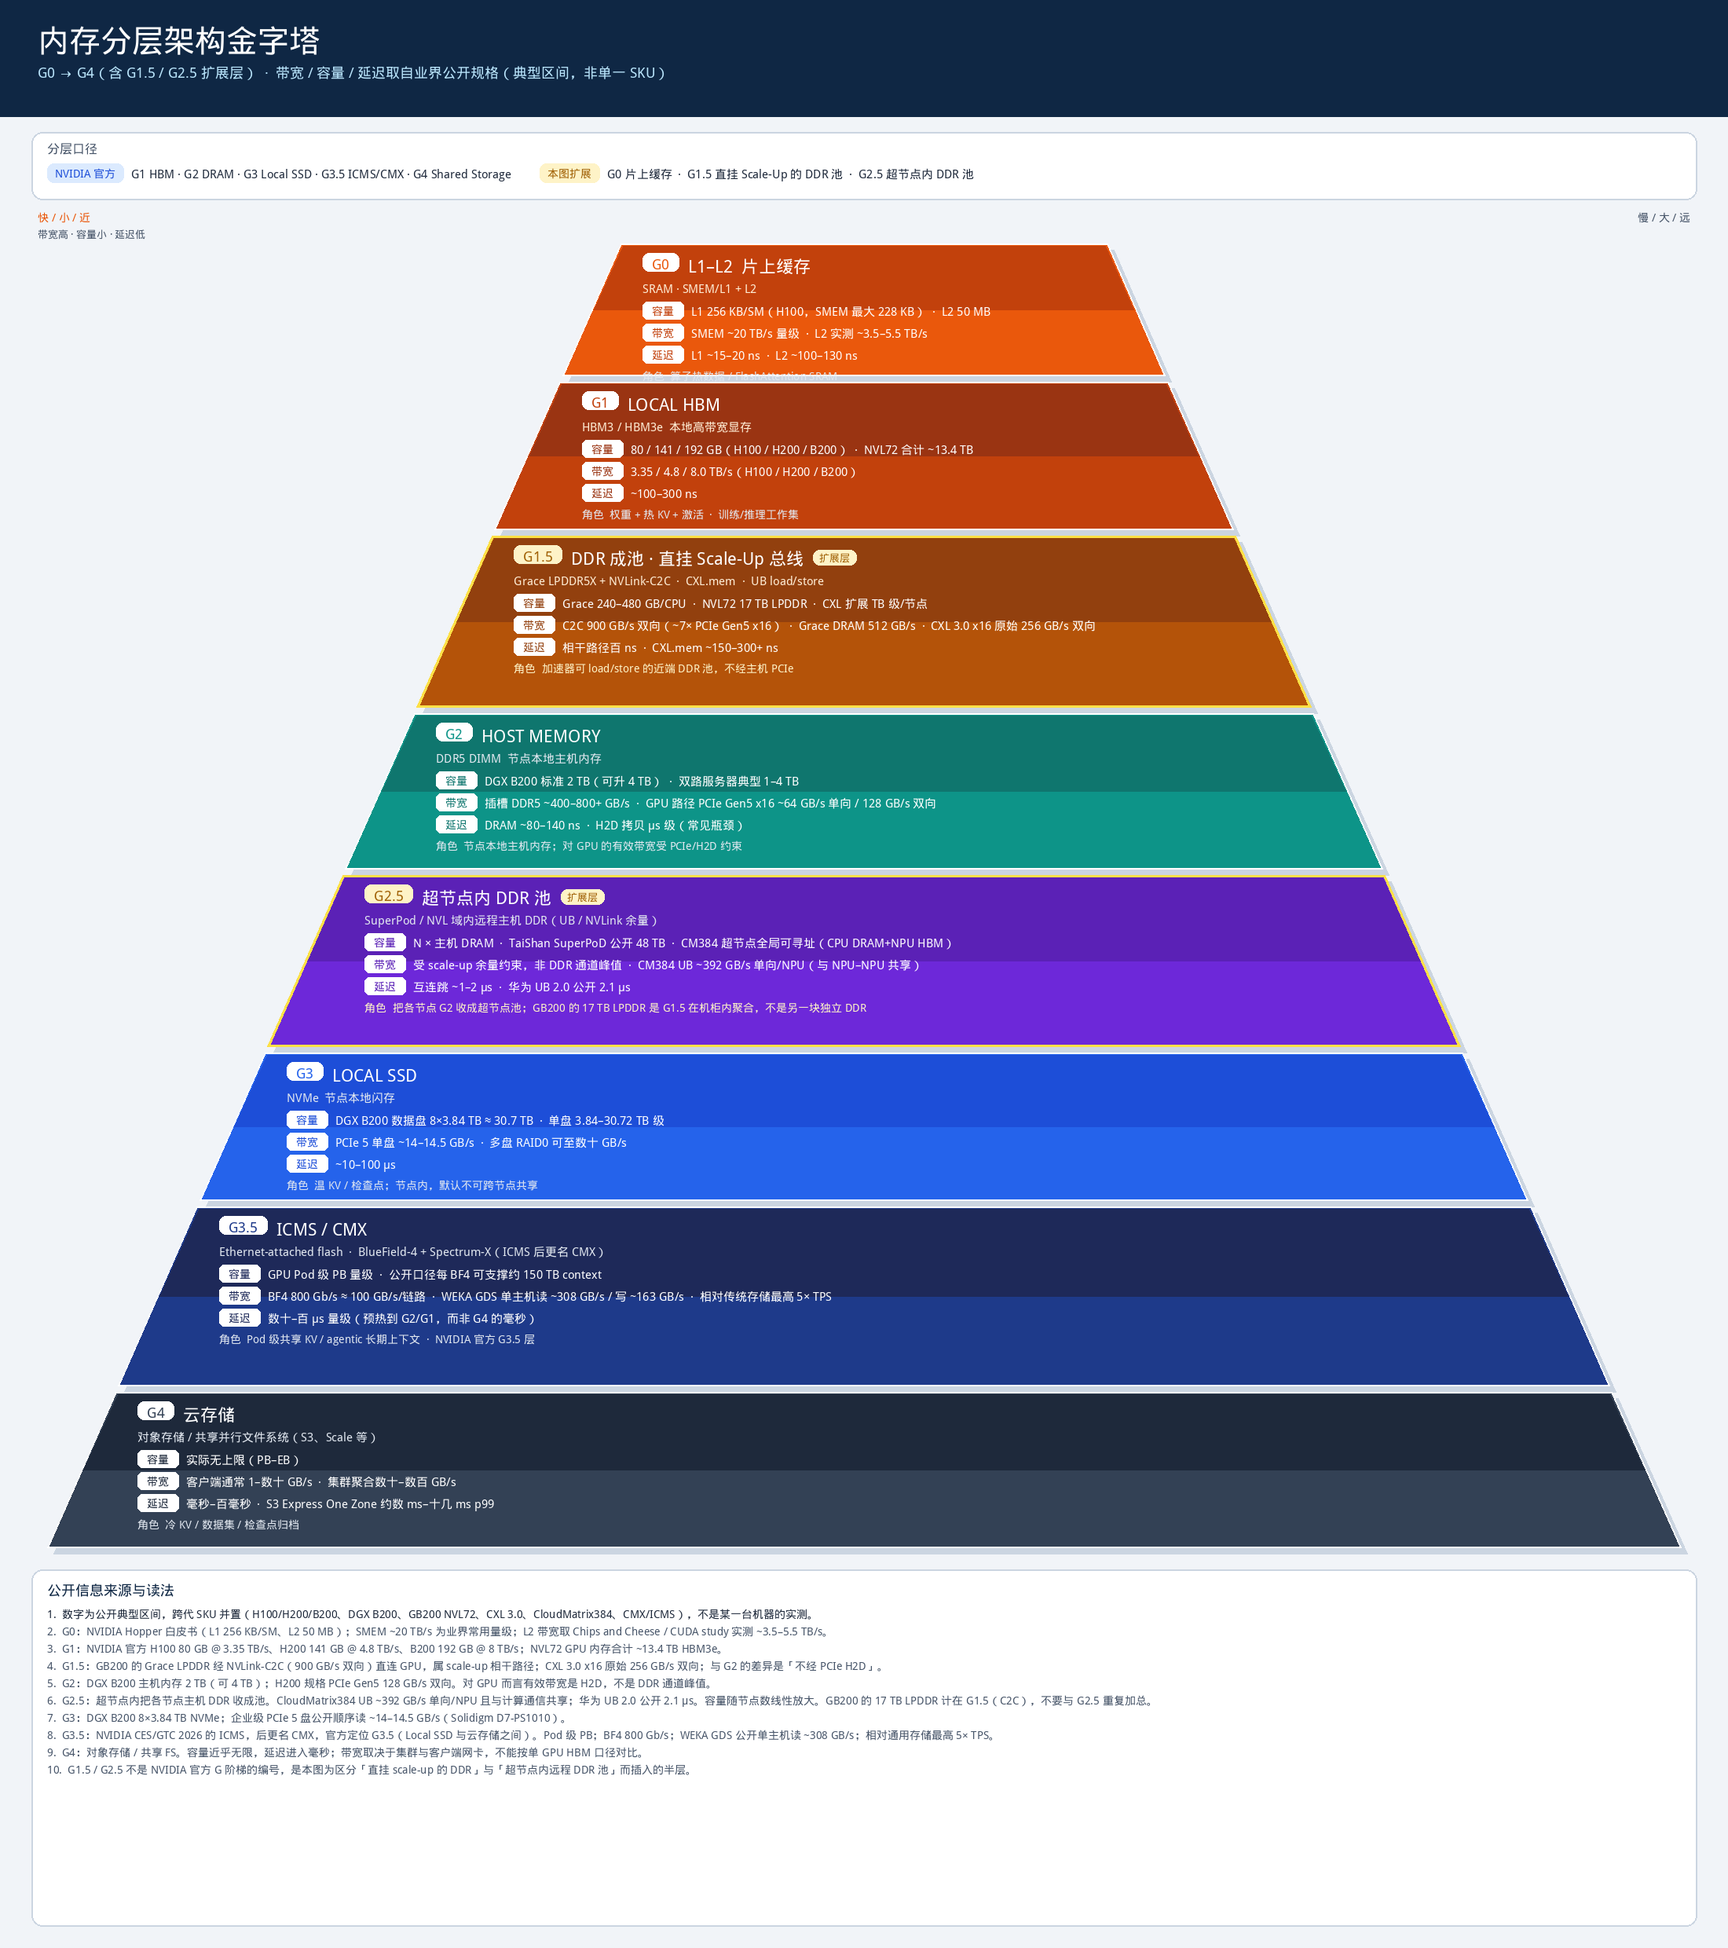
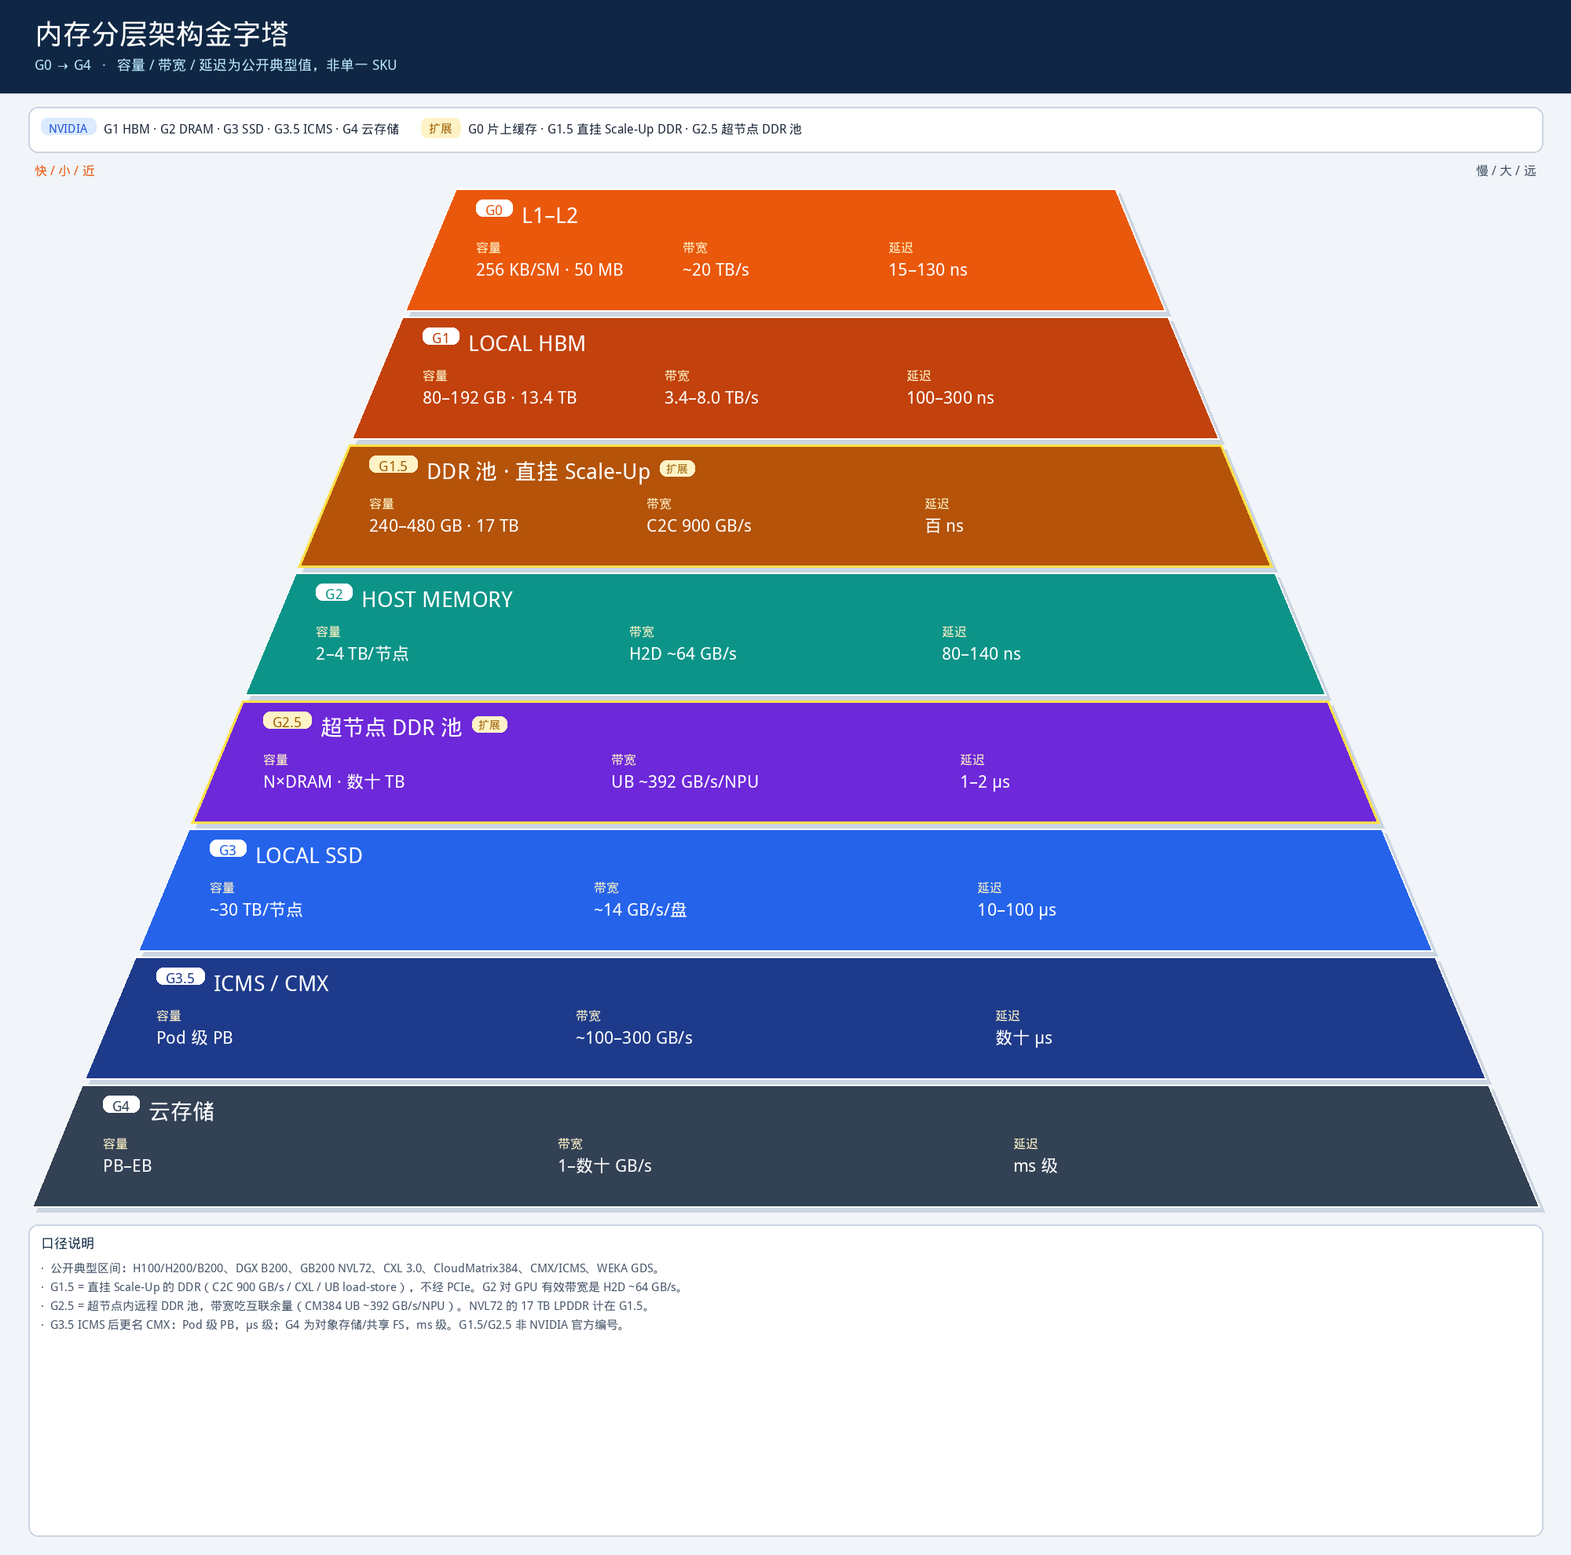
docs: simplify memory pyramid — drop roles, enlarge type
Remove per-layer role lines and shorten capacity/bandwidth/latency
copy into a three-column layout so the G0–G4 labels stay readable.

diff --git a/docs/gen_memory_hierarchy_pyramid.py b/docs/gen_memory_hierarchy_pyramid.py
@@ -3,7 +3,7 @@
 
 from PIL import Image, ImageDraw, ImageFont
 
-W, H = 2200, 2480
+W, H = 2000, 1980
 FONT = "/usr/share/fonts/truetype/wqy/wqy-microhei.ttc"
 
 NAVY = (15, 39, 68)
@@ -37,110 +37,79 @@ def pill(d, x, y, text, f, fg, bg, pad_x=10, pad_y=5):
     return w + 2 * pad_x, h + 2 * pad_y
 
 
+# cap / bw / lat kept short so they stay readable inside the trapezoid
 LAYERS = [
     {
         "id": "G0",
-        "name": "L1–L2  片上缓存",
-        "media": "SRAM · SMEM/L1 + L2",
+        "name": "L1–L2",
         "ext": False,
         "fill": (234, 88, 12),
-        "fill2": (194, 65, 12),
-        "cap": "L1 256 KB/SM（H100，SMEM 最大 228 KB）  ·  L2 50 MB",
-        "bw": "SMEM ~20 TB/s 量级  ·  L2 实测 ~3.5–5.5 TB/s",
-        "lat": "L1 ~15–20 ns  ·  L2 ~100–130 ns",
-        "role": "算子热数据 / FlashAttention SRAM",
-        "src": "Hopper 白皮书 · Chips and Cheese / CUDA microbench",
+        "cap": "256 KB/SM · 50 MB",
+        "bw": "~20 TB/s",
+        "lat": "15–130 ns",
     },
     {
         "id": "G1",
         "name": "LOCAL HBM",
-        "media": "HBM3 / HBM3e  本地高带宽显存",
         "ext": False,
         "fill": (194, 65, 12),
-        "fill2": (154, 52, 18),
-        "cap": "80 / 141 / 192 GB（H100 / H200 / B200）  ·  NVL72 合计 ~13.4 TB",
-        "bw": "3.35 / 4.8 / 8.0 TB/s（H100 / H200 / B200）",
-        "lat": "~100–300 ns",
-        "role": "权重 + 热 KV + 激活  ·  训练/推理工作集",
-        "src": "NVIDIA H100 / H200 / B200 / GB200 NVL72 公开规格",
+        "cap": "80–192 GB · 13.4 TB",
+        "bw": "3.4–8.0 TB/s",
+        "lat": "100–300 ns",
     },
     {
         "id": "G1.5",
-        "name": "DDR 成池 · 直挂 Scale-Up 总线",
-        "media": "Grace LPDDR5X + NVLink-C2C  ·  CXL.mem  ·  UB load/store",
+        "name": "DDR 池 · 直挂 Scale-Up",
         "ext": True,
         "fill": (180, 83, 9),
-        "fill2": (146, 64, 14),
-        "cap": "Grace 240–480 GB/CPU  ·  NVL72 17 TB LPDDR  ·  CXL 扩展 TB 级/节点",
-        "bw": "C2C 900 GB/s 双向（~7× PCIe Gen5 x16）  ·  Grace DRAM 512 GB/s  ·  CXL 3.0 x16 原始 256 GB/s 双向",
-        "lat": "相干路径百 ns  ·  CXL.mem ~150–300+ ns",
-        "role": "加速器可 load/store 的近端 DDR 池，不经主机 PCIe",
-        "src": "GB200 NVL72 · CXL 3.0 白皮书 · CloudMatrix384 UB 全局地址空间",
+        "cap": "240–480 GB · 17 TB",
+        "bw": "C2C 900 GB/s",
+        "lat": "百 ns",
     },
     {
         "id": "G2",
         "name": "HOST MEMORY",
-        "media": "DDR5 DIMM  节点本地主机内存",
         "ext": False,
         "fill": (13, 148, 136),
-        "fill2": (15, 118, 110),
-        "cap": "DGX B200 标准 2 TB（可升 4 TB）  ·  双路服务器典型 1–4 TB",
-        "bw": "插槽 DDR5 ~400–800+ GB/s  ·  GPU 路径 PCIe Gen5 x16 ~64 GB/s 单向 / 128 GB/s 双向",
-        "lat": "DRAM ~80–140 ns  ·  H2D 拷贝 µs 级（常见瓶颈）",
-        "role": "节点本地主机内存；对 GPU 的有效带宽受 PCIe/H2D 约束",
-        "src": "DGX B200 User Guide · H200 PCIe 128 GB/s",
+        "cap": "2–4 TB/节点",
+        "bw": "H2D ~64 GB/s",
+        "lat": "80–140 ns",
     },
     {
         "id": "G2.5",
-        "name": "超节点内 DDR 池",
-        "media": "SuperPod / NVL 域内远程主机 DDR（UB / NVLink 余量）",
+        "name": "超节点 DDR 池",
         "ext": True,
         "fill": (109, 40, 217),
-        "fill2": (91, 33, 182),
-        "cap": "N × 主机 DRAM  ·  TaiShan SuperPoD 公开 48 TB  ·  CM384 超节点全局可寻址（CPU DRAM+NPU HBM）",
-        "bw": "受 scale-up 余量约束，非 DDR 通道峰值  ·  CM384 UB ~392 GB/s 单向/NPU（与 NPU–NPU 共享）",
-        "lat": "互连跳 ~1–2 µs  ·  华为 UB 2.0 公开 2.1 µs",
-        "role": "把各节点 G2 收成超节点池；GB200 的 17 TB LPDDR 是 G1.5 在机柜内聚合，不是另一块独立 DDR",
-        "src": "CloudMatrix384 arXiv:2506.12708 · Huawei UB 2.0 · GB200 NVL72",
+        "cap": "N×DRAM · 数十 TB",
+        "bw": "UB ~392 GB/s/NPU",
+        "lat": "1–2 µs",
     },
     {
         "id": "G3",
         "name": "LOCAL SSD",
-        "media": "NVMe  节点本地闪存",
         "ext": False,
         "fill": (37, 99, 235),
-        "fill2": (29, 78, 216),
-        "cap": "DGX B200 数据盘 8×3.84 TB ≈ 30.7 TB  ·  单盘 3.84–30.72 TB 级",
-        "bw": "PCIe 5 单盘 ~14–14.5 GB/s  ·  多盘 RAID0 可至数十 GB/s",
-        "lat": "~10–100 µs",
-        "role": "温 KV / 检查点；节点内，默认不可跨节点共享",
-        "src": "DGX B200 · Solidigm D7-PS1010 14.5 GB/s",
+        "cap": "~30 TB/节点",
+        "bw": "~14 GB/s/盘",
+        "lat": "10–100 µs",
     },
     {
         "id": "G3.5",
         "name": "ICMS / CMX",
-        "media": "Ethernet-attached flash  ·  BlueField-4 + Spectrum-X（ICMS 后更名 CMX）",
         "ext": False,
         "fill": (30, 58, 138),
-        "fill2": (30, 41, 89),
-        "cap": "GPU Pod 级 PB 量级  ·  公开口径每 BF4 可支撑约 150 TB context",
-        "bw": "BF4 800 Gb/s ≈ 100 GB/s/链路  ·  WEKA GDS 单主机读 ~308 GB/s / 写 ~163 GB/s  ·  相对传统存储最高 5× TPS",
-        "lat": "数十–百 µs 量级（预热到 G2/G1，而非 G4 的毫秒）",
-        "role": "Pod 级共享 KV / agentic 长期上下文  ·  NVIDIA 官方 G3.5 层",
-        "src": "NVIDIA CMX/ICMS blog · WEKA Augmented Memory Grid",
+        "cap": "Pod 级 PB",
+        "bw": "~100–300 GB/s",
+        "lat": "数十 µs",
     },
     {
         "id": "G4",
         "name": "云存储",
-        "media": "对象存储 / 共享并行文件系统（S3、Scale 等）",
         "ext": False,
         "fill": (51, 65, 85),
-        "fill2": (30, 41, 59),
-        "cap": "实际无上限（PB–EB）",
-        "bw": "客户端通常 1–数十 GB/s  ·  集群聚合数十–数百 GB/s",
-        "lat": "毫秒–百毫秒  ·  S3 Express One Zone 约数 ms–十几 ms p99",
-        "role": "冷 KV / 数据集 / 检查点归档",
-        "src": "AWS S3 / 并行文件系统公开口径",
+        "cap": "PB–EB",
+        "bw": "1–数十 GB/s",
+        "lat": "ms 级",
     },
 ]
 
@@ -155,63 +124,56 @@ def main():
     d = ImageDraw.Draw(img)
     cx = W // 2
 
-    # header
-    rr(d, (0, 0, W, 148), 0, NAVY)
-    d.text((48, 28), "内存分层架构金字塔", font=font(40), fill=WHITE)
+    rr(d, (0, 0, W, 118), 0, NAVY)
+    d.text((44, 22), "内存分层架构金字塔", font=font(36), fill=WHITE)
     d.text(
-        (48, 82),
-        "G0 → G4（含 G1.5 / G2.5 扩展层）  ·  带宽 / 容量 / 延迟取自业界公开规格（典型区间，非单一 SKU）",
+        (44, 72),
+        "G0 → G4   ·   容量 / 带宽 / 延迟为公开典型值，非单一 SKU",
         font=font(18),
         fill=(186, 230, 253),
     )
 
-    # legend chips
-    y_leg = 168
-    rr(d, (40, y_leg, W - 40, y_leg + 86), 14, CARD, LINE, 2)
-    d.text((60, y_leg + 12), "分层口径", font=font(16), fill=MUTED)
-    x = 60
-    y = y_leg + 40
+    y_leg = 136
+    rr(d, (36, y_leg, W - 36, y_leg + 58), 12, CARD, LINE, 2)
+    x = 52
+    y = y_leg + 14
     items = [
-        ("NVIDIA 官方", "G1 HBM · G2 DRAM · G3 Local SSD · G3.5 ICMS/CMX · G4 Shared Storage", (29, 78, 216), (219, 234, 254)),
-        ("本图扩展", "G0 片上缓存  ·  G1.5 直挂 Scale-Up 的 DDR 池  ·  G2.5 超节点内 DDR 池", GOLD, GOLD_BG),
+        ("NVIDIA", "G1 HBM · G2 DRAM · G3 SSD · G3.5 ICMS · G4 云存储", (29, 78, 216), (219, 234, 254)),
+        ("扩展", "G0 片上缓存 · G1.5 直挂 Scale-Up DDR · G2.5 超节点 DDR 池", GOLD, GOLD_BG),
     ]
     for title, body, fg, bgc in items:
-        pw, ph = pill(d, x, y, title, font(14), fg, bgc)
-        d.text((x + pw + 10, y + 4), body, font=font(15), fill=INK)
-        x += pw + 10 + tw(d, body, font(15))[0] + 36
+        pw, _ = pill(d, x, y, title, font(15), fg, bgc, 10, 5)
+        d.text((x + pw + 10, y + 5), body, font=font(16), fill=INK)
+        x += pw + 10 + tw(d, body, font(16))[0] + 28
 
-    # axis hint
-    d.text((48, 268), "快 / 小 / 近", font=font(14), fill=(234, 88, 12))
-    d.text((W - 48 - tw(d, "慢 / 大 / 远", font(14))[0], 268), "慢 / 大 / 远", font=font(14), fill=MUTED)
-    d.text((48, 268 + 22), "带宽高 · 容量小 · 延迟低", font=font(13), fill=MUTED)
+    d.text((44, 208), "快 / 小 / 近", font=font(16), fill=(234, 88, 12))
+    d.text((W - 44 - tw(d, "慢 / 大 / 远", font(16))[0], 208), "慢 / 大 / 远", font=font(16), fill=MUTED)
 
-    # pyramid geometry
-    y0 = 310
-    heights = [168, 188, 218, 198, 218, 188, 228, 198]
-    gap = 8
-    total_h = sum(heights) + gap * (len(heights) - 1)
+    y0 = 240
+    hgt = 156
+    gap = 7
+    n = len(LAYERS)
+    total_h = hgt * n + gap * (n - 1)
     y1 = y0 + total_h
-    top_hw, bot_hw = 310, 1040
+    top_hw, bot_hw = 420, 960
 
-    ys = []
-    y = y0
-    for hgt in heights:
-        ys.append((y, y + hgt))
-        y += hgt + gap
+    ys = [(y0 + i * (hgt + gap), y0 + i * (hgt + gap) + hgt) for i in range(n)]
 
-    # drop shadow
     for i, layer in enumerate(LAYERS):
         top, bot = ys[i]
         hw_t = half_width(top, y0, y1, top_hw, bot_hw)
         hw_b = half_width(bot, y0, y1, top_hw, bot_hw)
         poly = [
-            (cx - hw_t + 8, top + 8),
-            (cx + hw_t + 8, top + 8),
-            (cx + hw_b + 8, bot + 8),
-            (cx - hw_b + 8, bot + 8),
+            (cx - hw_t + 6, top + 6),
+            (cx + hw_t + 6, top + 6),
+            (cx + hw_b + 6, bot + 6),
+            (cx - hw_b + 6, bot + 6),
         ]
         d.polygon(poly, fill=(203, 213, 225))
 
+    f_title = font(28)
+    f_lab = font(16)
+    f_val = font(22)
     for i, layer in enumerate(LAYERS):
         top, bot = ys[i]
         hw_t = half_width(top, y0, y1, top_hw, bot_hw)
@@ -223,76 +185,42 @@ def main():
             (cx - hw_b, bot),
         ]
         d.polygon(poly, fill=layer["fill"])
-        # inner highlight band
-        mid = (top + bot) / 2
-        hw_m = half_width(mid, y0, y1, top_hw, bot_hw)
-        d.polygon(
-            [
-                (cx - hw_t + 3, top + 3),
-                (cx + hw_t - 3, top + 3),
-                (cx + hw_m - 3, mid),
-                (cx - hw_m + 3, mid),
-            ],
-            fill=layer["fill2"],
-        )
         outline = (253, 224, 71) if layer["ext"] else WHITE
         d.polygon(poly, outline=outline, width=3 if layer["ext"] else 2)
 
-        pad = 28
-        left = cx - hw_t + pad
-        # conservative inner left using top width
-        x0 = left
-        yy = top + 12
-
-        # badge
+        x0 = cx - hw_t + 26
+        yy = top + 14
         badge_fg = GOLD if layer["ext"] else layer["fill"]
         badge_bg = GOLD_BG if layer["ext"] else WHITE
-        bw, bh = pill(d, x0, yy, layer["id"], font(18), badge_fg, badge_bg, 12, 5)
-        d.text((x0 + bw + 12, yy + 4), layer["name"], font=font(22), fill=WHITE)
+        bw, _ = pill(d, x0, yy, layer["id"], font(18), badge_fg, badge_bg, 12, 4)
+        d.text((x0 + bw + 12, yy + 3), layer["name"], font=f_title, fill=WHITE)
         if layer["ext"]:
-            ew, _ = tw(d, "扩展层", font(13))
-            name_w, _ = tw(d, layer["name"], font(22))
-            pill(d, x0 + bw + 12 + name_w + 12, yy + 6, "扩展层", font(13), GOLD, GOLD_BG, 8, 3)
+            nw, _ = tw(d, layer["name"], f_title)
+            pill(d, x0 + bw + 12 + nw + 12, yy + 6, "扩展", font(14), GOLD, GOLD_BG, 8, 3)
 
-        d.text((x0, yy + 36), layer["media"], font=font(15), fill=(255, 237, 213) if i < 3 else (226, 232, 240))
+        # three metric columns
+        inner_w = 2 * hw_t - 52
+        col_w = inner_w / 3
+        my = yy + 52
+        cols = [("容量", layer["cap"]), ("带宽", layer["bw"]), ("延迟", layer["lat"])]
+        for ci, (lab, val) in enumerate(cols):
+            cx0 = x0 + ci * col_w
+            d.text((cx0, my), lab, font=f_lab, fill=(254, 243, 199))
+            d.text((cx0, my + 24), val, font=f_val, fill=WHITE)
 
-        # metric rows
-        metrics = [
-            ("容量", layer["cap"]),
-            ("带宽", layer["bw"]),
-            ("延迟", layer["lat"]),
-        ]
-        my = yy + 62
-        for label, val in metrics:
-            lw, lh = tw(d, label, font(14))
-            rr(d, (x0, my, x0 + 52, my + lh + 8), 6, WHITE)
-            d.text((x0 + (52 - lw) / 2, my + 3), label, font=font(14), fill=layer["fill2"])
-            d.text((x0 + 62, my + 3), val, font=font(15), fill=WHITE)
-            my += lh + 14
-
-        d.text((x0, my + 2), "角色  " + layer["role"], font=font(14), fill=(254, 243, 199) if layer["ext"] else (226, 232, 240))
-
-    # footer / sources
-    fy = y1 + 28
-    rr(d, (40, fy, W - 40, H - 28), 14, CARD, LINE, 2)
-    d.text((60, fy + 16), "公开信息来源与读法", font=font(18), fill=NAVY)
+    fy = y1 + 22
+    rr(d, (36, fy, W - 36, H - 24), 12, CARD, LINE, 2)
+    d.text((52, fy + 14), "口径说明", font=font(17), fill=NAVY)
     notes = [
-        "数字为公开典型区间，跨代 SKU 并置（H100/H200/B200、DGX B200、GB200 NVL72、CXL 3.0、CloudMatrix384、CMX/ICMS），不是某一台机器的实测。",
-        "G0：NVIDIA Hopper 白皮书（L1 256 KB/SM、L2 50 MB）；SMEM ~20 TB/s 为业界常用量级；L2 带宽取 Chips and Cheese / CUDA study 实测 ~3.5–5.5 TB/s。",
-        "G1：NVIDIA 官方 H100 80 GB @ 3.35 TB/s、H200 141 GB @ 4.8 TB/s、B200 192 GB @ 8 TB/s；NVL72 GPU 内存合计 ~13.4 TB HBM3e。",
-        "G1.5：GB200 的 Grace LPDDR 经 NVLink-C2C（900 GB/s 双向）直连 GPU，属 scale-up 相干路径；CXL 3.0 x16 原始 256 GB/s 双向；与 G2 的差异是「不经 PCIe H2D」。",
-        "G2：DGX B200 主机内存 2 TB（可 4 TB）；H200 规格 PCIe Gen5 128 GB/s 双向。对 GPU 而言有效带宽是 H2D，不是 DDR 通道峰值。",
-        "G2.5：超节点内把各节点主机 DDR 收成池。CloudMatrix384 UB ~392 GB/s 单向/NPU 且与计算通信共享；华为 UB 2.0 公开 2.1 µs。容量随节点数线性放大。GB200 的 17 TB LPDDR 计在 G1.5（C2C），不要与 G2.5 重复加总。",
-        "G3：DGX B200 8×3.84 TB NVMe；企业级 PCIe 5 盘公开顺序读 ~14–14.5 GB/s（Solidigm D7-PS1010）。",
-        "G3.5：NVIDIA CES/GTC 2026 的 ICMS，后更名 CMX，官方定位 G3.5（Local SSD 与云存储之间）。Pod 级 PB；BF4 800 Gb/s；WEKA GDS 公开单主机读 ~308 GB/s；相对通用存储最高 5× TPS。",
-        "G4：对象存储 / 共享 FS。容量近乎无限，延迟进入毫秒；带宽取决于集群与客户端网卡，不能按单 GPU HBM 口径对比。",
-        "G1.5 / G2.5 不是 NVIDIA 官方 G 阶梯的编号，是本图为区分「直挂 scale-up 的 DDR」与「超节点内远程 DDR 池」而插入的半层。",
+        "公开典型区间：H100/H200/B200、DGX B200、GB200 NVL72、CXL 3.0、CloudMatrix384、CMX/ICMS、WEKA GDS。",
+        "G1.5 = 直挂 Scale-Up 的 DDR（C2C 900 GB/s / CXL / UB load-store），不经 PCIe。G2 对 GPU 有效带宽是 H2D ~64 GB/s。",
+        "G2.5 = 超节点内远程 DDR 池，带宽吃互联余量（CM384 UB ~392 GB/s/NPU）。NVL72 的 17 TB LPDDR 计在 G1.5。",
+        "G3.5 ICMS 后更名 CMX：Pod 级 PB，µs 级；G4 为对象存储/共享 FS，ms 级。G1.5/G2.5 非 NVIDIA 官方编号。",
     ]
-    ny = fy + 48
-    nf = font(14)
-    for i, line in enumerate(notes):
-        d.text((60, ny), f"{i + 1}.  {line}", font=nf, fill=INK if i == 0 else MUTED)
-        ny += 22
+    ny = fy + 46
+    for line in notes:
+        d.text((52, ny), "·  " + line, font=font(15), fill=MUTED)
+        ny += 24
 
     out = "/workspace/docs/memory-hierarchy-pyramid.png"
     img.save(out, "PNG", optimize=True)
